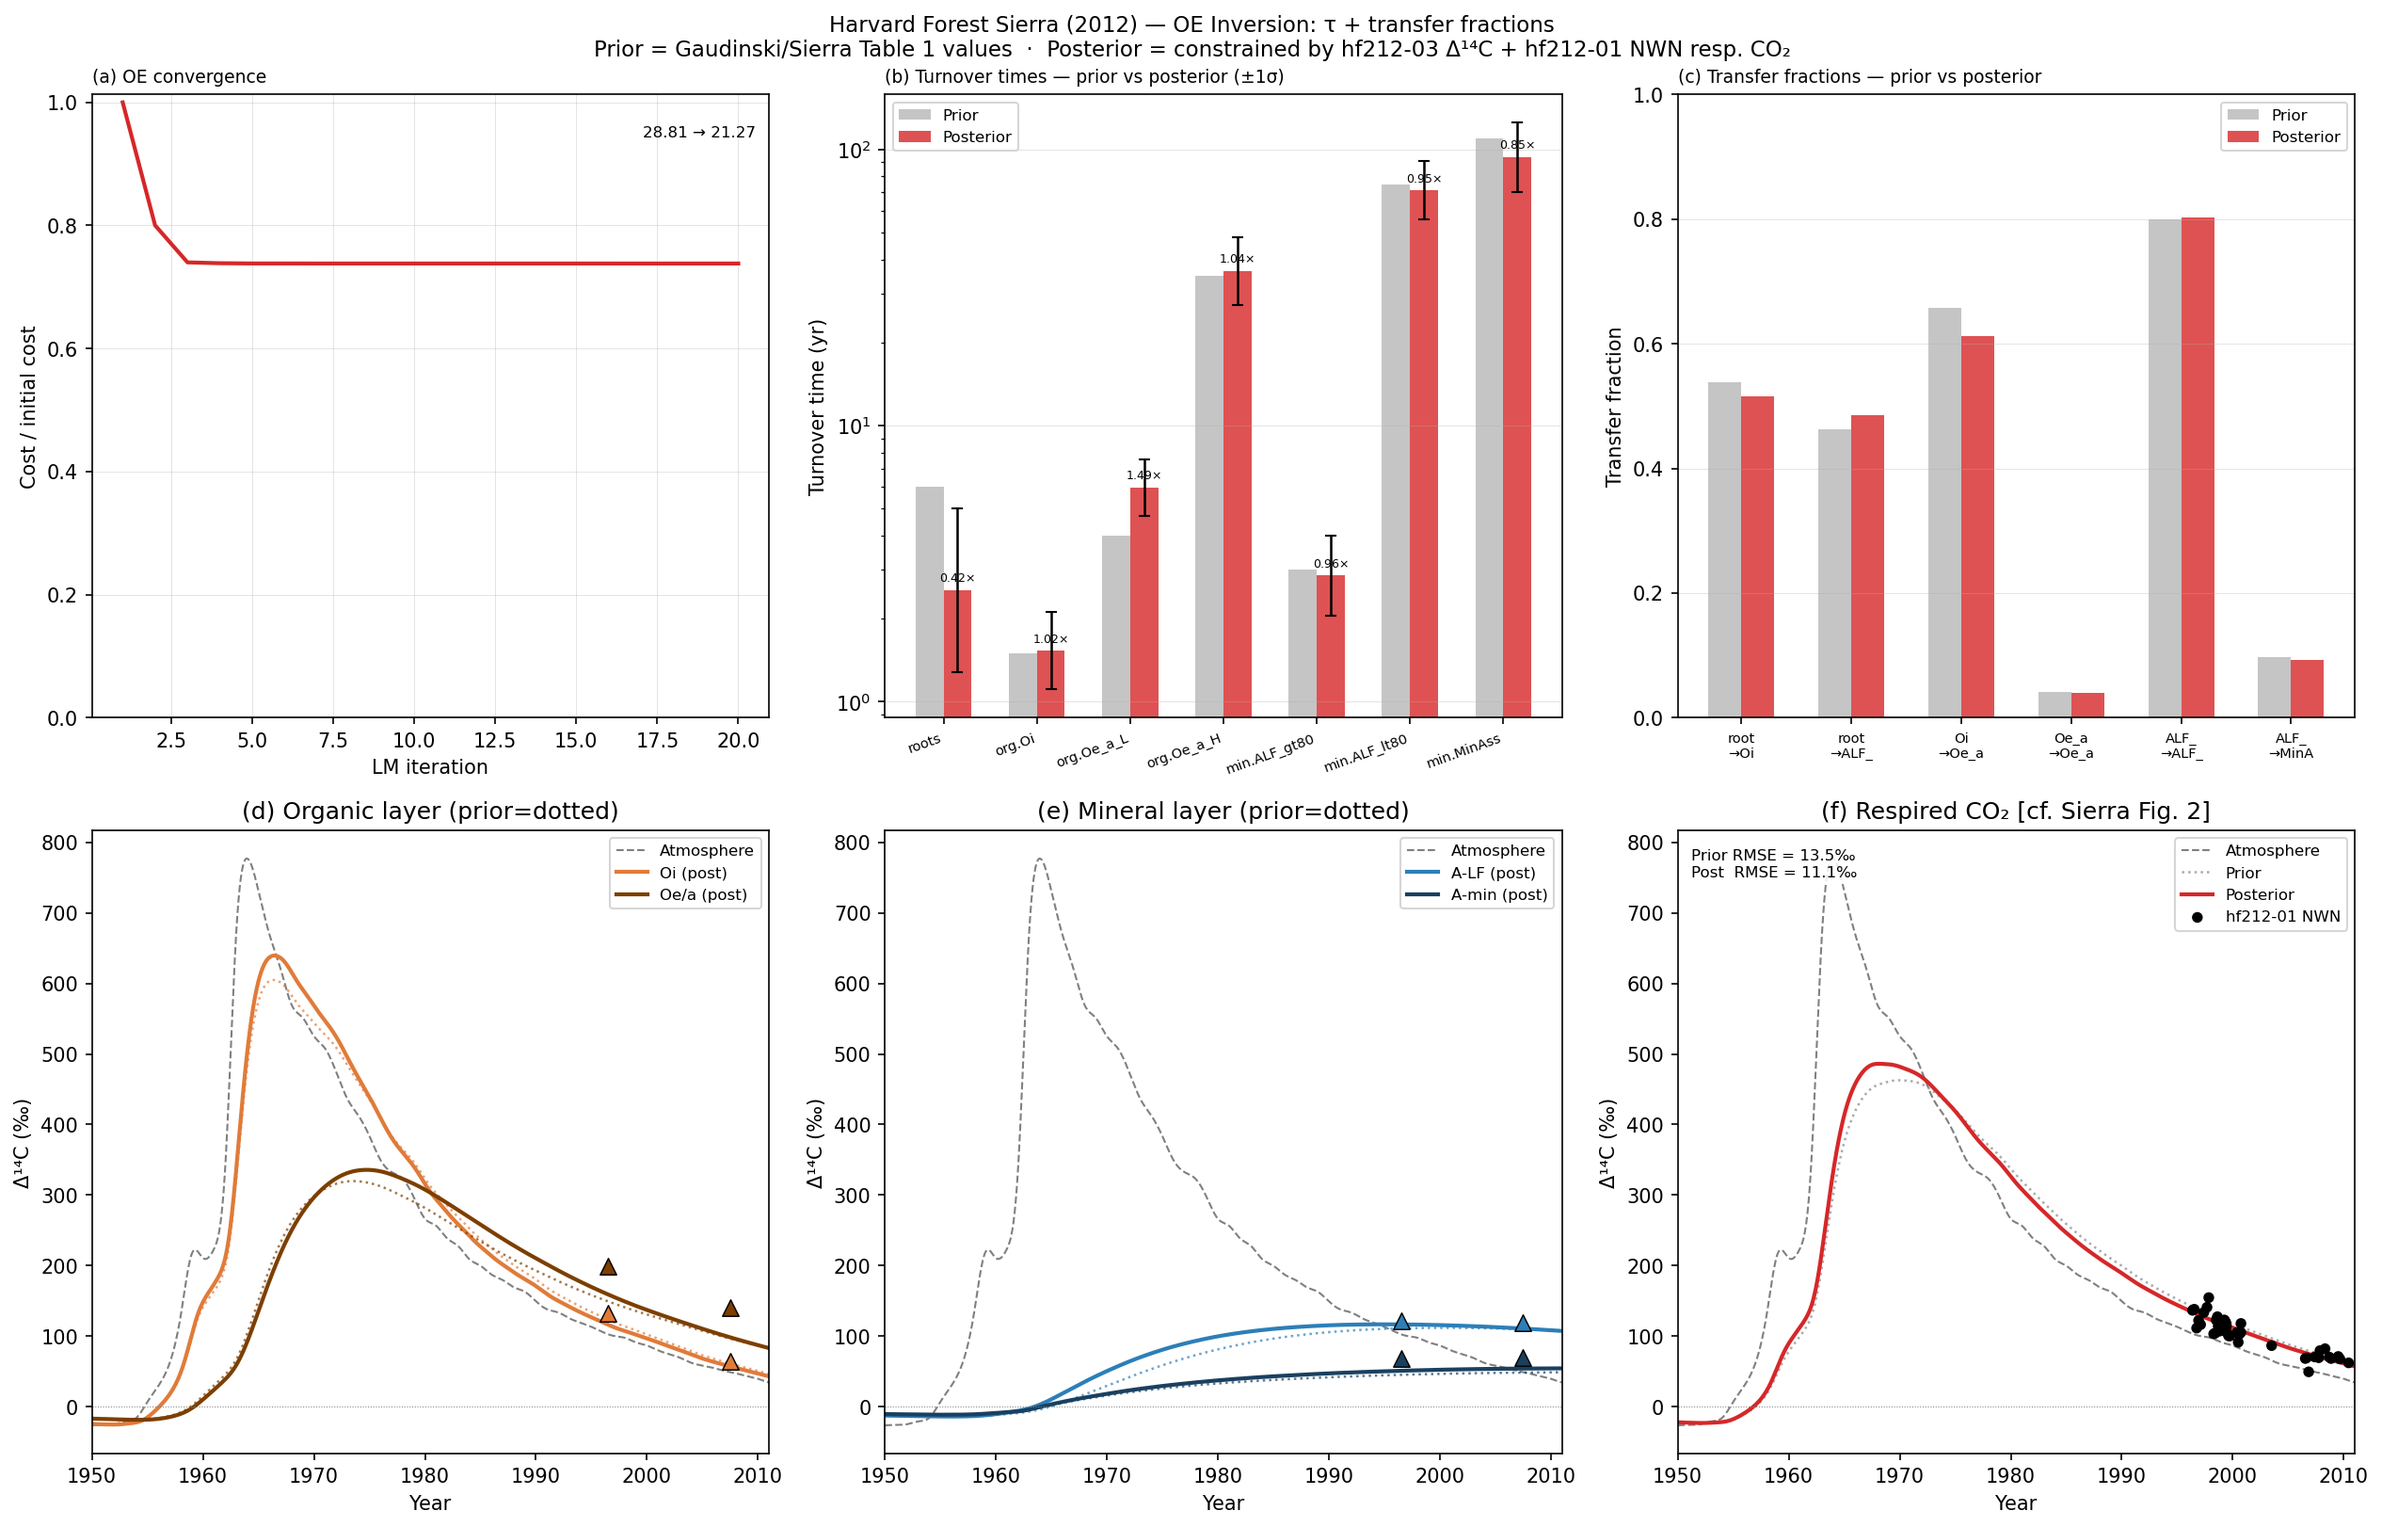
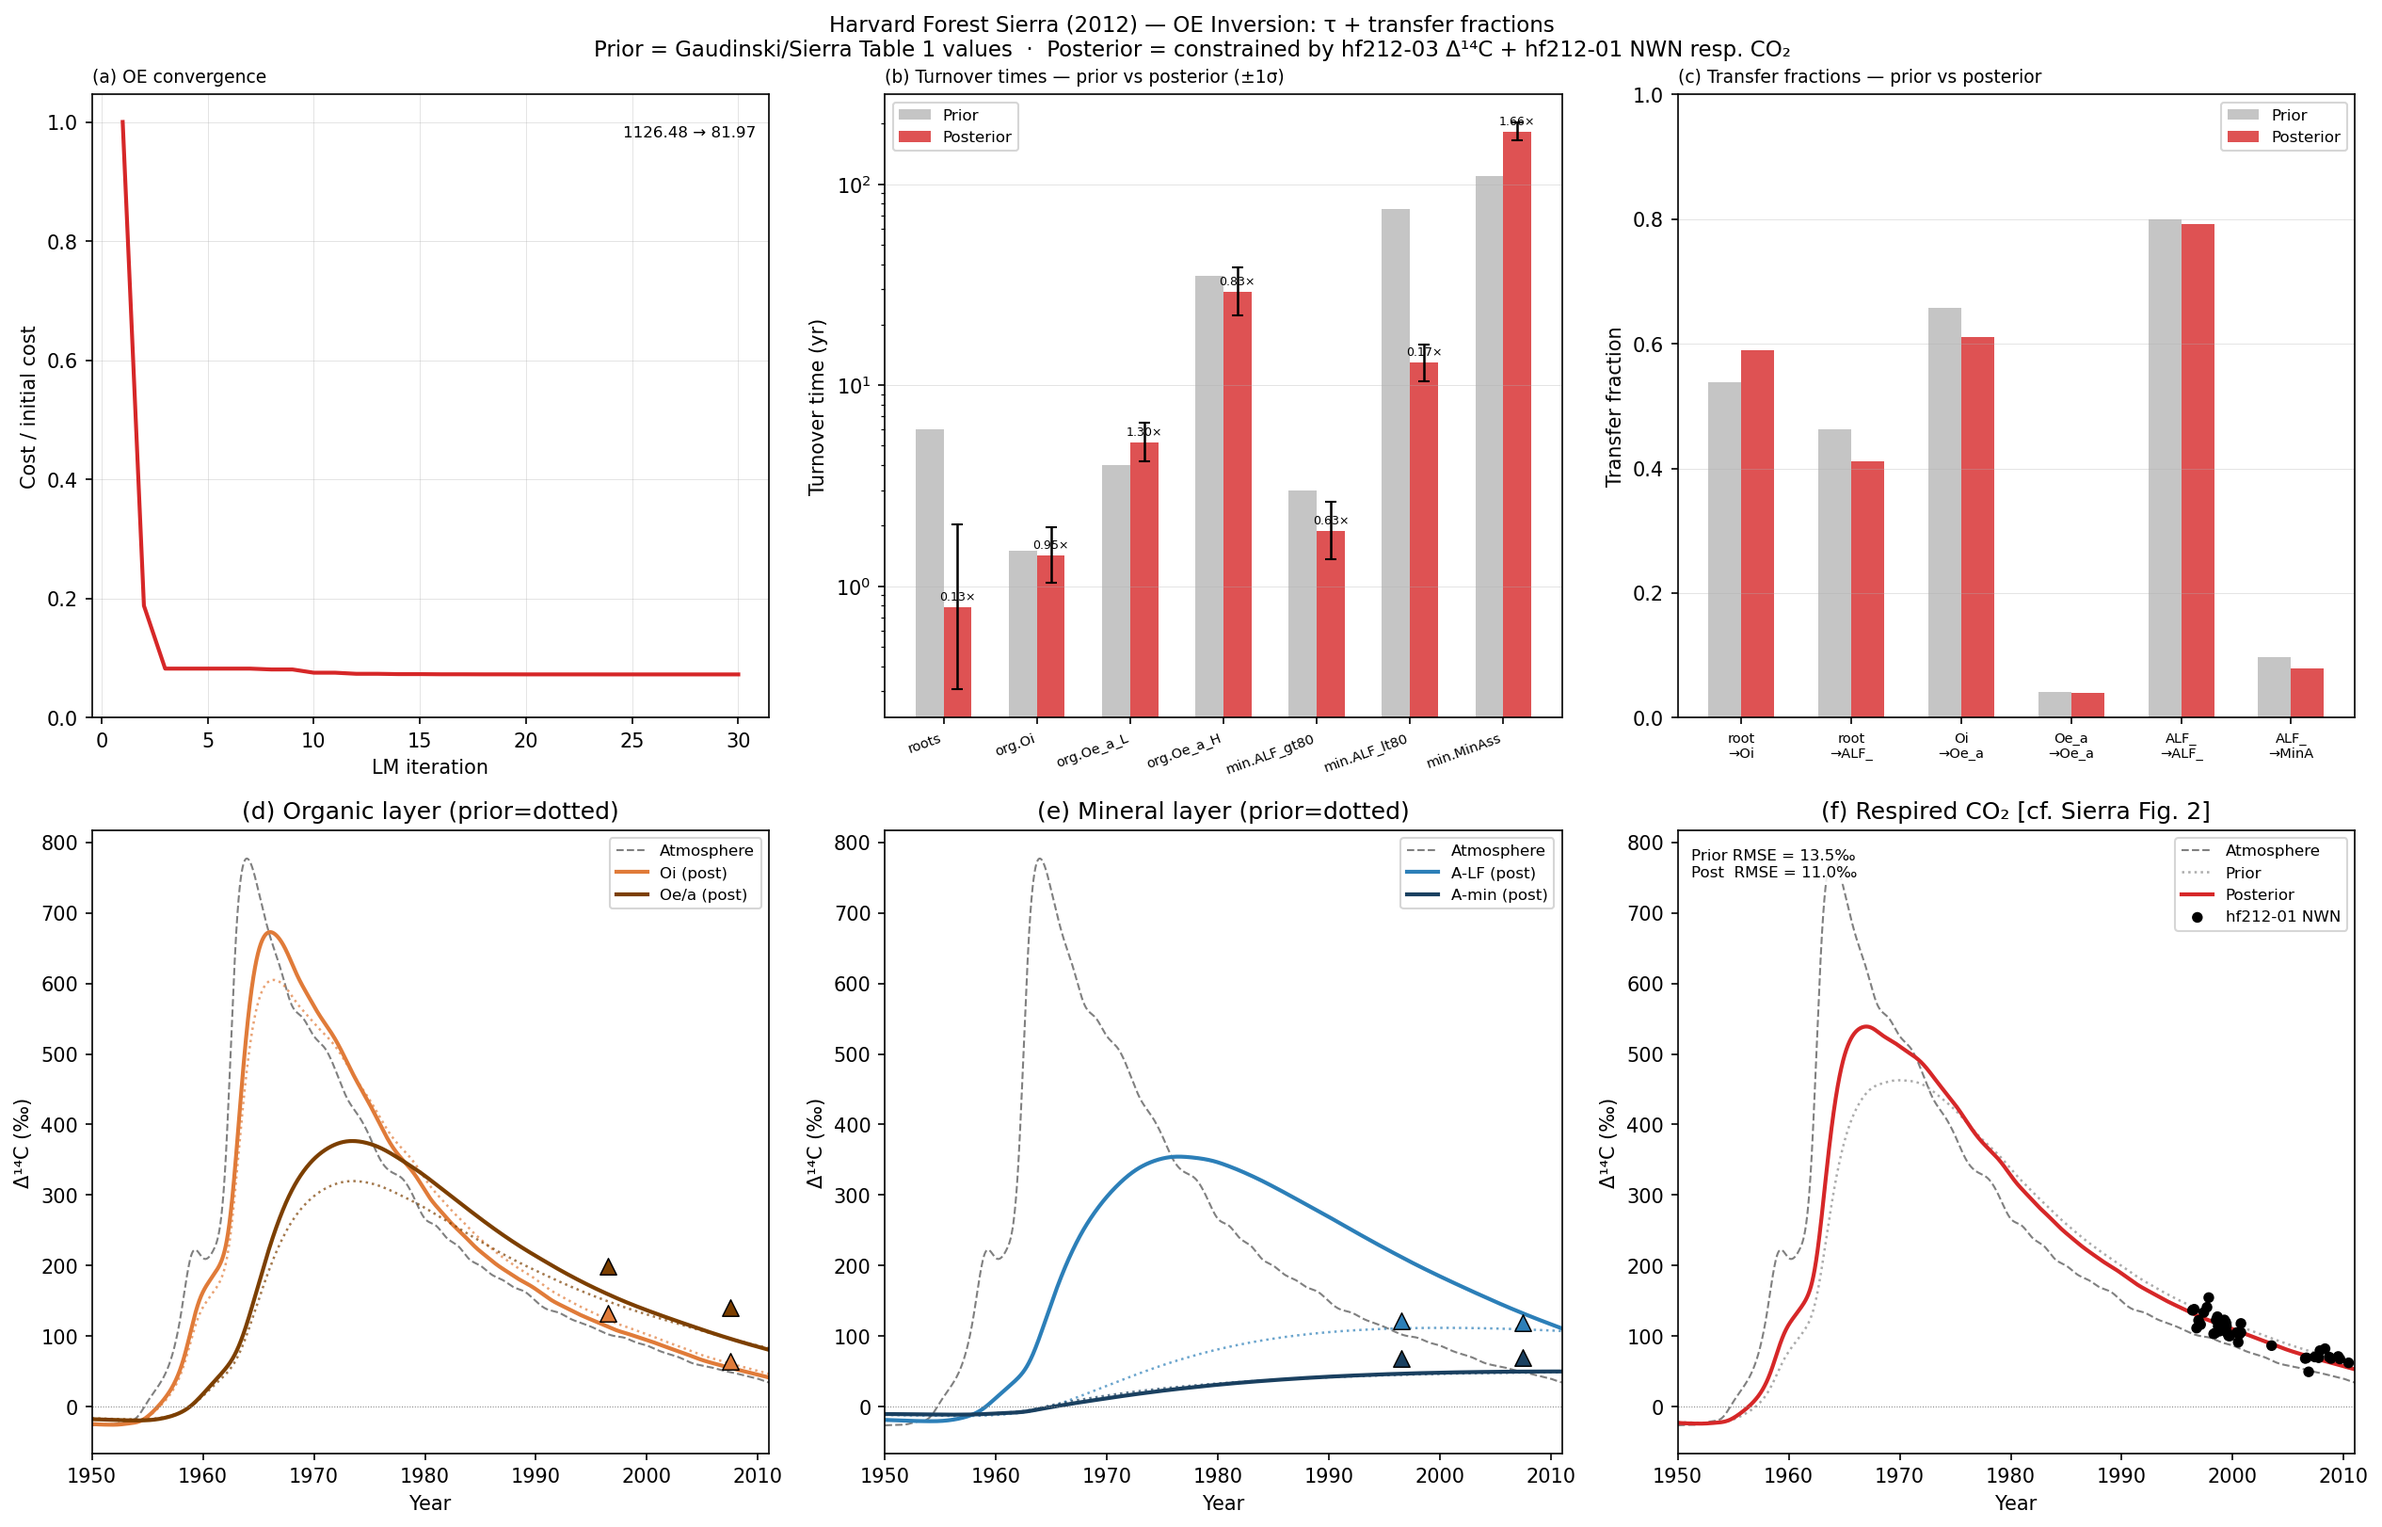
Remove site-specific 8× LUE tuning factor; update 3-pool config
model.py and tracer_14C.py: remove the 8.0 multiplier on the fallback
LUE GPP calculation — it was a Harvard Forest-specific tuning factor
that should not live in the general model code.  All current scripts
use prescribed GPP_obs so behaviour is unchanged.

harvard_3pool_config.yaml: lock partition to cascade-top only
(soil_active=1.0, optimize_partition=false) and raise OE max iterations
to 50.

diff --git a/src/ecosystem_complexity/tracer_14C.py b/src/ecosystem_complexity/tracer_14C.py
@@ -172,14 +172,14 @@ def step_14C(
         GPP_prescribed = forcing_t[external_input_source_key]
         GPP = jnp.where(
             jnp.isnan(GPP_prescribed),
-            8.0 * forcing_t["sw_radiation"] * _LUE * (1.0 - jnp.exp(-_K_EXT * _LAI)),
+            forcing_t["sw_radiation"] * _LUE * (1.0 - jnp.exp(-_K_EXT * _LAI)),
             GPP_prescribed,
         )
         # Fraction of NPP bypassing AG pools → scale AG ¹⁴C NPP input down
         soil_frac = jax.nn.sigmoid(params.log_soil_input_fraction)
         ag_frac = 1.0 - soil_frac
     else:
-        GPP = 8.0 * forcing_t["sw_radiation"] * _LUE * (1.0 - jnp.exp(-_K_EXT * _LAI))
+        GPP = forcing_t["sw_radiation"] * _LUE * (1.0 - jnp.exp(-_K_EXT * _LAI))
         ag_frac = 1.0
 
     F_npp = npp_allocation(GPP, CUE, params.log_alloc, n_ag) * ag_frac  # (n_ag,)

diff --git a/src/ecosystem_complexity/model.py b/src/ecosystem_complexity/model.py
@@ -79,7 +79,7 @@ def _gpp(sw_radiation: jnp.ndarray) -> jnp.ndarray:
 
     This is a placeholder; the inversion will constrain GPP via NEE obs.
     """
-    return 8.0 * sw_radiation * _LUE * (1.0 - jnp.exp(-_K_EXT * _LAI))
+    return sw_radiation * _LUE * (1.0 - jnp.exp(-_K_EXT * _LAI))
 
 
 def _pool_env_vecs(
